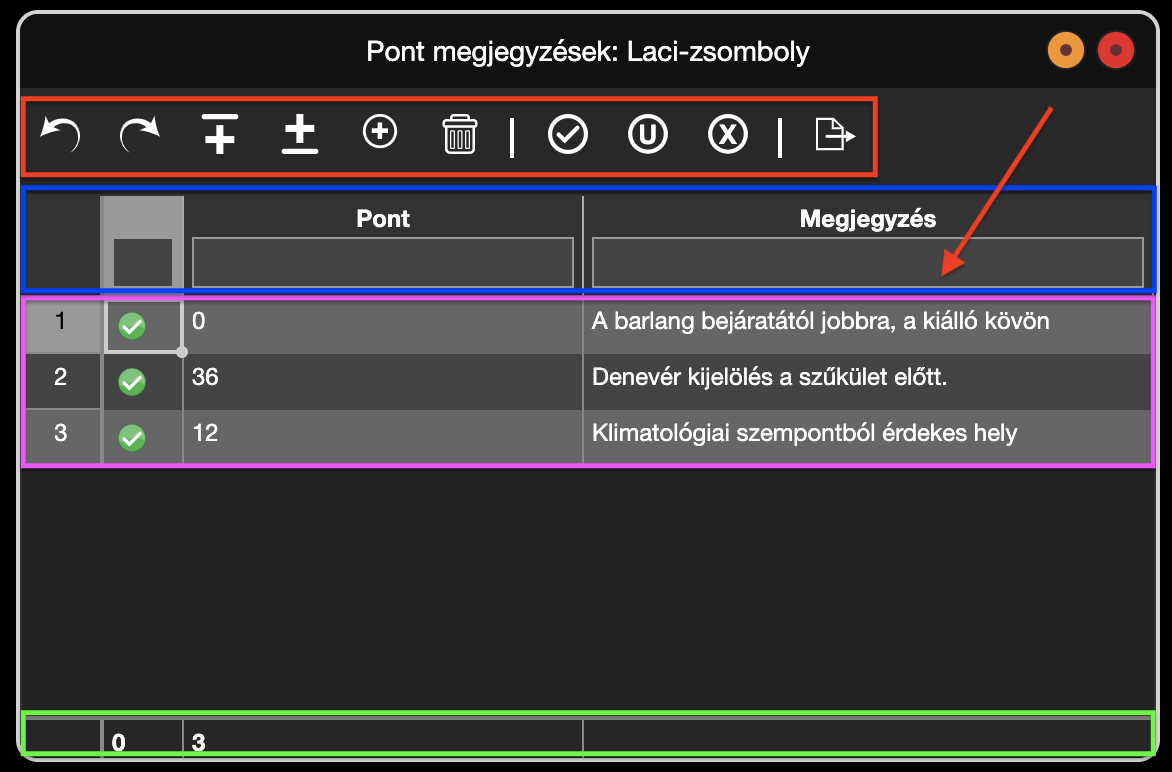
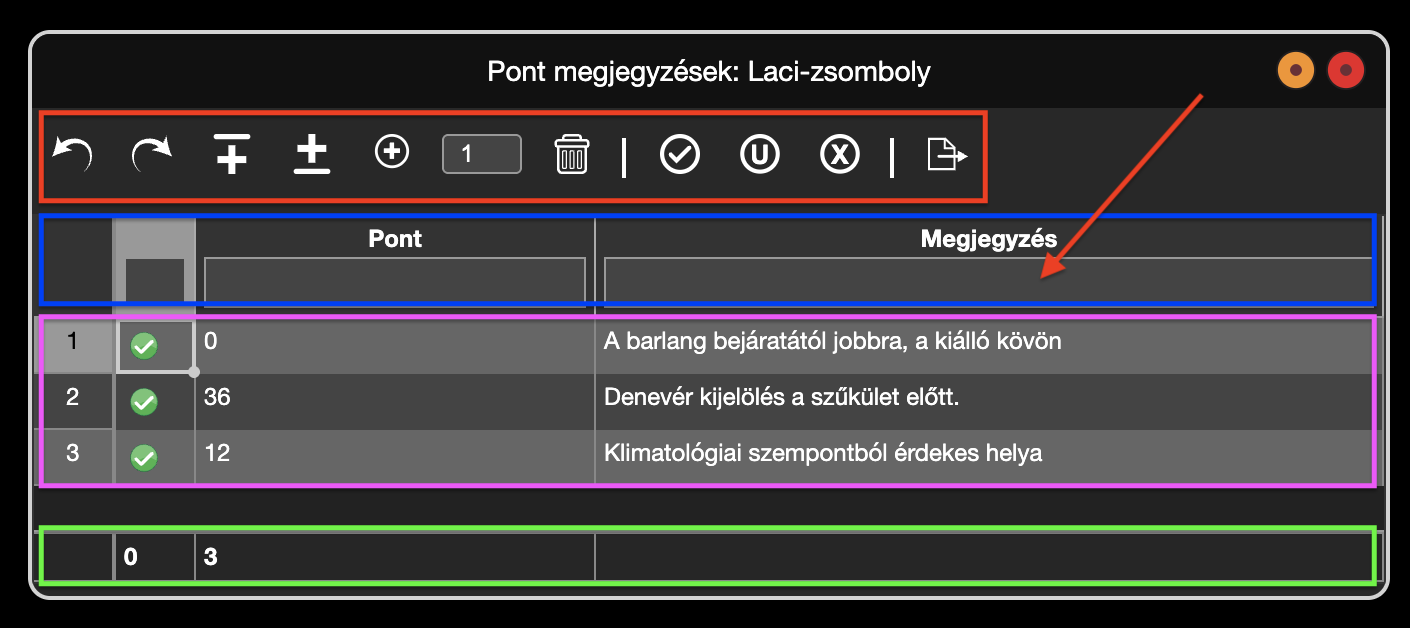
manual: update manual with recent features

diff --git a/manual/hu/06-barlang-szerkesztese.html b/manual/hu/06-barlang-szerkesztese.html
@@ -115,24 +115,47 @@
         </ul>
       </div>
 
-      <div class="editor-box">
-        <h4>Koordináták</h4>
-        <p
-          >A bevezető fejezetben már taglaltuk a koordináta rendszereket, amelyek elmagyarázzák a koordináta rendszerek
-          rejtelmeit. A barlang kezdőpontjának vetületi koordinátái lehet itt megadni UTM vagy EOV formátumban.</p
-        >
-        <ul>
-          <li><strong>Pont neve:</strong> A pont neve, amelyhez az EOV koordináták tartoznak</li>
-          <li
-            ><strong>Vetületi koordináták (UTM, EOV):</strong> EOV (y,x) vagy UTM (keleti, északi) koordináták
-            megadása</li
-          >
-          <li><strong>Magasság:</strong> Tengerszint feletti magasság</li>
-        </ul>
+      <div class="row editor-box">
+        <div class="column-2">
+          <h4>Koordináták</h4>
+          <p
+            >A bevezető fejezetben már taglaltuk a koordináta rendszereket alapjait. Ha barlangjainkat szeretnénk
+            valamilyen vetületi koordináta rendszerben megjeleneníteni más barlangokkal és esetleg felszíni modelekkel
+            együtt, akkor a barlang kezdőpontjának meg kell adnunk a vetületi koordinátáit, amelyet UTM vagy EOV
+            formátumban adhatunk meg. Sok esetben a felszíni modellek valamilyen vetületi koordináta rendszerben vannak
+            (pl. EOV), de több barlang megnyitása esetén is szükség van vetületi koordináták megadására, ellenkező
+            esetben minden barlang kezdőpontja ugyanazon a helyen lenne.
+          </p>
+
+          <ul>
+            <li><strong>Pont neve:</strong> A pont neve, amelyhez a vetületi koordináták tartoznak</li>
+            <li
+              ><strong>Vetületi koordináták (UTM, EOV):</strong> EOV (y,x) vagy UTM (keleti, északi) koordináták
+              megadása</li
+            >
+            <li><strong>Magasság:</strong> Tengerszint feletti magasság</li>
+          </ul>
+          <p
+            >Lehetőség van <strong>GPS (WGS84) koordináták manuális megadására is</strong>, amelyeket a Speleo Studio
+            automatikusan UTM koordinátákra konvertál. A GPS konvertálás gombra kattintva megadhatjuk a GPS
+            koordinátákat (hosszúság és szélesség) kétféle formátumban: fokok és percek (DMS) illetve decimális fokok
+            (DD). A megadott koordinátákat a Speleo Studio UTM koordinátákra konvertálja a megfelelő UTM zóna
+            kiválasztásával és felveszi a koordinátákat a barlang adatlapján. Ne felejtsük el megadni a kezdőpont nevét,
+            illetve magasságát!
+          </p>
+        </div>
+        <div class="image-placeholder black small-padding" style="flex: 20%">
+          <img src="images/4b-gps-konvertalas.png"
+        /></div>
       </div>
 
       <div class="editor-box">
         <h4>Pont megfeleltetések (aliaszok)</h4>
+        <p
+          >A pont megfeleltetésekről részletesen a
+          <a href="03-adatmodell.html#pont-megfeleltetesek-aliaszok">Pont megfeleltetések (aliaszok)</a> fejezetben
+          olvashatsz.</p
+        >
         <ul>
           <li><strong>Pont neve:</strong> A pont eredeti neve</li>
           <li><strong>Pont megfeleltetése:</strong> Az aliasz neve, azaz milyen más néven érhető még el ez a pont</li>
@@ -265,6 +288,7 @@
             ><img src="../../icons/add_white.svg" class="icon" /><strong> Sor hozzáadása a végéhez:</strong> Új sor
             beszúrása a táblázat végéhez</li
           >
+          <li><strong> Új sorok számra:</strong> A szerkeszthető mezőben az új sorok számát adhatjuk meg.</li>
           <li
             ><img src="../../icons/trash_white.svg" class="icon" /><strong> Sor(ok) törlése:</strong> Aktuális /
             Kiválasztott sor vagy sorok törlése</li

diff --git a/manual/hu/03-adatmodell.html b/manual/hu/03-adatmodell.html
@@ -93,9 +93,9 @@
           <h4>Fix koordináták</h4>
           <p
             >A fix koordináták lehetővé teszik, hogy a barlangokat egy olyan koordináta rendszerben jelenítsük meg,
-            amelyet más alkalmazások is használnak. Jelenleg csak az EOV koordináta rendszert támogatja a Speleo Studio
-            (csak a kezdőpont koordinátája adható meg). Tervbe van véve más rendszerek támogatása is pl. a WGS84
-            koordináta rendszer.
+            amelyet más alkalmazások is használnak. Jelenleg az EOV és UTM vetületi koordináta rendszereket támogatja a
+            Speleo Studio (csak a kezdőpont koordinátája adható meg), de fel lehet venni fix pontokat WGS84 (GPS)
+            koordináták konvertálásával is.
           </p>
         </div>
       </div>
@@ -296,7 +296,9 @@
                   minden járatra vonatkoztatja az adott tulajsonságot egészen addig, amíg egy megadott végponthoz nem
                   ér. Gondoljunk a barlangra egy gráfként, a komponens attribútum a gráf egy adott komponensére
                   vonatkozik, amelynek bejárása a kezdőponttól történik és a végpontokig tart. Végpontok megadása nélkül
-                  a komponens attribútum a teljes barlangra vonatkozik.
+                  a komponens attribútum a teljes barlangra vonatkozik. Az ábrán a zöld színnel jelölt komponens
+                  kezdőpontja a rózsaszín pont, ahonnan kiindulva elkezdjük bejárni a barlangot. A sárga végpontok
+                  nélkül a komponens attribútum a teljes barlangra vonatkozna, de a sárga végpontoknál a bejárás megáll.
                 </li>
               </ul>
             </div>
@@ -307,17 +309,19 @@
           <p>Az attribútumokat beosztottuk főbb csoportokba (kategóriákba):</p>
           <ul>
             <li>Geológia</li>
-            <li>Felszerelés</li>
-            <li>Képződmény</li>
+            <li>Kiépítés</li>
+            <li>Kitöltés</li>
             <li>Fauna</li>
             <li>Klimatológia</li>
             <li>Metaadatok</li>
+            <li>Archeológia</li>
+            <li>Szpeleotéma</li>
           </ul>
           <p
-            >Minden attribútumnak vannak kötelező és nem kötelező paraméterei, ezek az attribútumtól függenek. Egy
-            <i>kötél</i> attribútum esetén kötelező paraméter a hossz, nem kötelező mezők az állapot és a beépítés éve.
-            A paraméterek helyességét a Speleo Studio automatikusan ellenőrzi, például a kötél hossz értéke nem lehet
-            negatív.
+            >Minden attribútumnak van egy neve és vannak paraméterei, amelyek az attribútumtól függenek. A paraméterek
+            lehetnek kötelezőek, vagy opcionálisak. Egy <i>kötél</i> attribútum esetén kötelező paraméter a hossz, nem
+            kötelező mező az állapot és a beépítés éve. A paraméterek helyességét a Speleo Studio automatikusan
+            ellenőrzi, például a kötél hossz értéke nem lehet negatív.
           </p>
           <p
             >Az <strong>attribútumok teljes listáját</strong> az

diff --git a/manual/hu/04-adatok-importalasa.html b/manual/hu/04-adatok-importalasa.html
@@ -182,15 +182,28 @@
       <div class="format-box">
         <h4>TopoDroid formátum</h4>
         <p
-          >A TopoDroid egy elterjedt Android alkalmazás, amellyel felméréseket végezhetünk a barlangokban. A CSV export
-          tartalmazza a felmérési adatokat egyszerű szöveges formátumban, amelyet exportálnunk kell a TopoDroid
-          alkalmazásból.</p
+          >A TopoDroid egy elterjedt Android alkalmazás, amellyel felméréseket végezhetünk a barlangokban. A TopoDroid
+          felméréseket kezel és nem komplett barlangokat, így egy teljes barlangot nem, de egyes felméréseket
+          importálhatunk a Speleo Studio-ba, amihez a CSV formátumot javasoljuk. A CSV export tartalmazza a felmérési
+          adatokat egyszerű szöveges formátumban, amelyet exportálnunk kell a TopoDroid alkalmazásból, hogy aztán a
+          fájlt a Speleo Studio-ba importálhassuk.</p
         >
 
         <h5>Előnyök:</h5>
         <ul>
           <li>Sokak által használt alkalmazás, támogatása alapvető fontosságú</li>
           <li>Egyszerű formátum</li>
+        </ul>
+      </div>
+
+      <div class="warning">
+        <h3>⚠ TopoDroid verzió és felmérés megjegyzések</h3>
+        <ul>
+          <li
+            >A TopoDroid régebbi verziója nem exportálja ki a méréseknél megadott megjegyzéseket és a felmérés fix
+            koordinátáit, ezért javasoljuk a legújabb verziót használni.</li
+          >
+          <li>A megjegzzések exportálása a v6.3.52 (2025-09-10) verziótól kezdődően lehetséges</li>
         </ul>
       </div>
 
@@ -230,6 +243,17 @@
         <img src="images/4-topodroid-4.png" />
       </div>
 
+      <div class="info">
+        <p
+          >Ha a TopoDroid fájl tartalmaz fix (GPS) koordinátákat, akkor a Speleo Studio az első fix koordinátát UTM
+          koordinátákra konvertálja és felveszi a barlang adatlapján, ha a barlangnak még nincs UTM-től eltérő korábban
+          kiválasztott koordináta rendszere (pl. EOV). Ekkor a következő üzenetet kapjuk:</p
+        >
+      </div>
+      <div class="image-placeholder black">
+        <img src="images/4b-topodroid-koordinata-hiba.png" />
+      </div>
+
       <div class="step">
         <h3>TopoDroid felmérés hozzáadása egy felméréshez</h3>
         <p
@@ -264,6 +288,9 @@
 0@felmeres,1@felmeres,7.51,310.6,-6.8,1,,"A bejárat után jobbra a falon"
 0@felmeres,-,6.26,314.06,-54.38,,,""
 0@felmeres,-,14.56,313.81,-45.78,,,""
+
+# station, lon, lat, h_geo, accuracy, V_accuracy, comment, CRS
+0, 19.123456, 47.654321, 161, 78.5, 55.1,"comment",
       </div>
 
       <div class="info">

diff --git a/manual/hu/08-attributumok.html b/manual/hu/08-attributumok.html
@@ -194,6 +194,39 @@
         </ul>
       </div>
 
+      <div class="editor-box">
+        <h4>Kontextus menü részletezése</h4>
+        <p>Jobb egérgombbal kattinva egy cellán megnyílik a kontextus menü, amely a következő opciókat tartalmazza:</p>
+        <ul>
+          <li
+            ><img src="../../icons/trash_white.svg" class="icon" /> <strong> Sor törlése:</strong> Kiválasztott sor
+            törlése</li
+          >
+          <li
+            ><img src="../../icons/add_white.svg" class="icon" /> <strong> Sor hozzáadása előtte:</strong> Új sor
+            beszúrása a kiválasztott sor előtt</li
+          >
+          <li
+            ><img src="../../icons/add_white.svg" class="icon" /><strong> Sor hozzáadása után:</strong> Új sor beszúrása
+            a kiválasztott sor után</li
+          >
+          <li
+            ><img src="../../icons/visible.svg" class="icon" /><strong> Kiválasztottak megjelenítése:</strong> A
+            táblázatban látható összes sor megjelenítése</li
+          >
+          <li
+            ><img src="../../icons/invisible.svg" class="icon" /><strong> Kiválasztottak elrejtése:</strong> A
+            táblázatban látható összes sor elrejtése</li
+          >
+          <li
+            ><img src="../../icons/rotate.svg" class="icon" /><strong> Cella érték propagálása:</strong> Az egér
+            kattintás által kijelölt cella értékének másolása a táblazatban látható összes sor azonos oszlopába. Például
+            egy sor attribútumának értékét másolhatjuk a táblazatban látható összes sor attribútumába. A következő
+            oszlopok esetén működik: Szín, Pont, Ponttól, Pontig, Induló pont, Végpont(ok), Attribútum, Formátum.
+          </li>
+        </ul>
+      </div>
+
       <h3>Pont attribútumok hozzáadása</h3>
 
       <div class="step">
@@ -414,13 +447,6 @@
         exportálása után az exportált fájlt importáltva pl. Excelben könnyedén összesíthetjük, hogy az adott évben hány
         métert fedeztek fel a barlangban.
       </p>
-
-      <h2>Következő lépések</h2>
-      <p
-        >Most, hogy megismerte az attribútumok kezelését, folytathatja az
-        <a href="09-eszkozok.html">eszközök és számítások</a> fejezettel, ahol megtanulja a Speleo Studio speciális
-        eszközeinek használatát.</p
-      >
 
       <h2>Komponens attribútumok</h2>
 
